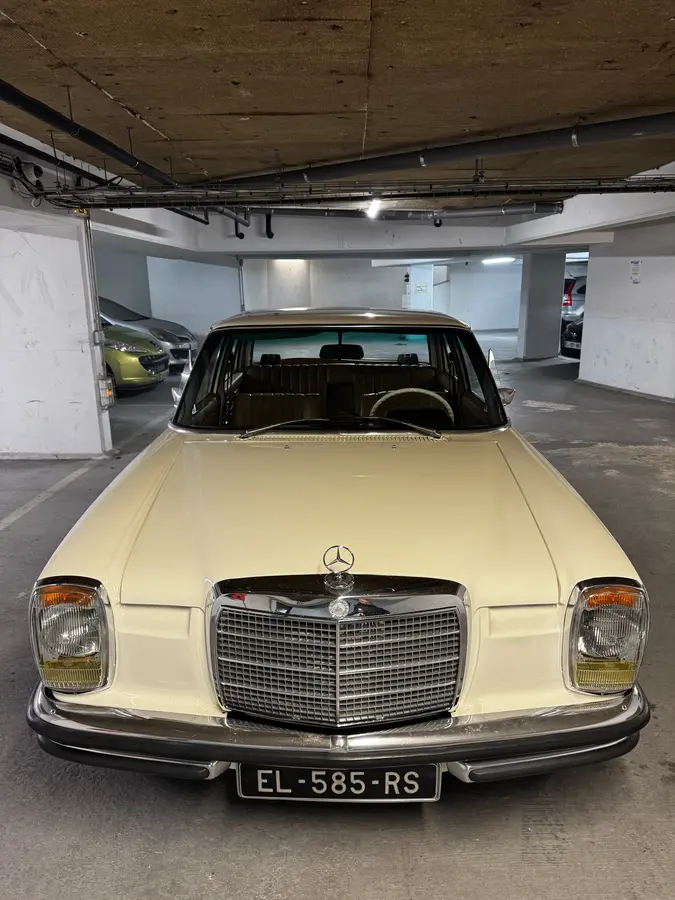
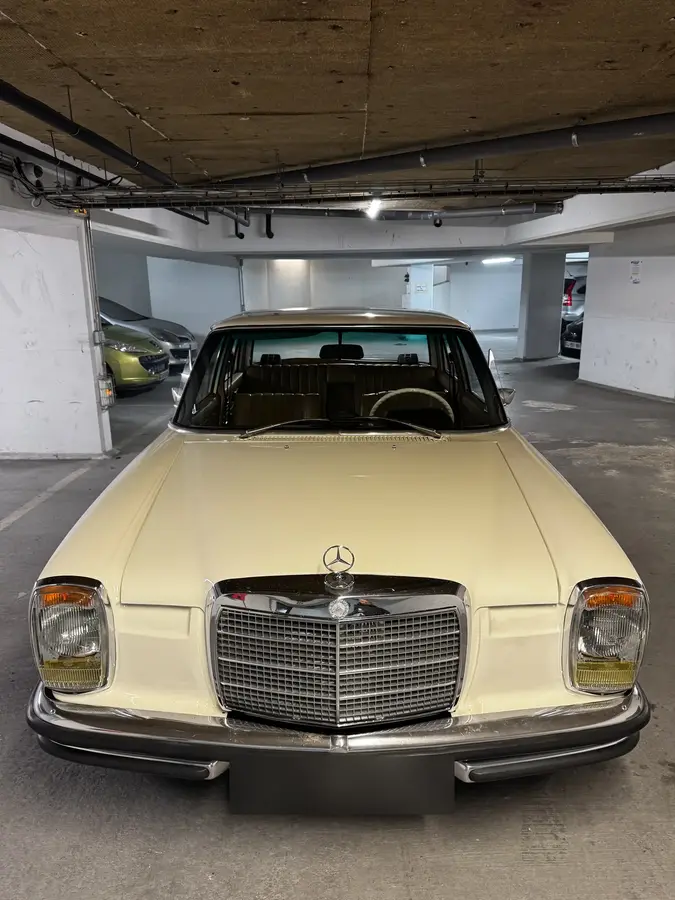
Smoother car change in the collection, blurred licence plates, full-width sheet photo on phones
- Parking: past its neighbour's place, the car changing sides speeds up and leaves the screen
  before reappearing (off screen too) on the other side, instead of vanishing on the spot.
- Licence plates blurred on the Mercedes photos (front, three-quarter rear, rear) and on the
  Peugeot 504 front photo; PROJECT_CONTEXT: every plate shown on the site must be blurred.
- Vehicle sheet: the photo frame gets an explicit height instead of aspect-ratio + max-height,
  which made Safari shrink it and leave it stuck to the left on phones.

Claude-Session: https://claude.ai/code/session_014T3PA9EPttZwtbaPWpaHtJ

Changed region(s): [[0.3422, 0.84, 0.6844, 0.9022]]

diff --git a/src/index.css b/src/index.css
@@ -200,9 +200,10 @@ button, input, select, textarea { font-variant-numeric: lining-nums; }
 .em-specs dd { margin: 0; text-align: right; }
 
 /* photos de la fiche : entières, sans recadrage */
-/* Photos de la fiche : en grand, d'un bord à l'autre de la fiche, toutes dans le même cadre carré */
+/* Photos de la fiche : en grand, d'un bord à l'autre de la fiche, toutes dans le même cadre (carré, moins haut sur
+   téléphone). Hauteur explicite, pas d'aspect-ratio : avec une hauteur maximale, Safari rétrécissait le cadre en largeur. */
 .em-carousel { display: flex; flex-direction: column; min-width: 0; margin: .2rem calc(-1 * var(--sheet-px, 0px)) 1.2rem; }
-.em-carousel__track { flex: none; aspect-ratio: 1; max-height: 64cqh; display: flex; overflow-x: auto; overflow-y: hidden; scroll-snap-type: x mandatory; overscroll-behavior-x: contain; scrollbar-width: none; touch-action: pan-x pan-y; background: #0a120e; }
+.em-carousel__track { flex: none; width: 100%; height: min(var(--em-sheet-w), 64cqh); display: flex; overflow-x: auto; overflow-y: hidden; scroll-snap-type: x mandatory; overscroll-behavior-x: contain; scrollbar-width: none; touch-action: pan-x pan-y; background: #0a120e; }
 .em-carousel__track::-webkit-scrollbar { display: none; }
 .em-carousel__slide { position: relative; flex: 0 0 100%; min-width: 0; height: 100%; margin: 0; scroll-snap-align: center; scroll-snap-stop: always; }
 .em-carousel__open { display: block; width: 100%; height: 100%; padding: 0; border: 0; background: none; cursor: zoom-in; }
@@ -225,7 +226,7 @@ button, input, select, textarea { font-variant-numeric: lining-nums; }
   .em-parking__panel { top: auto; left: 0; width: auto; height: var(--em-sheet-h); border-left: 0; border-top: 1px solid color-mix(in srgb, var(--ivory) 14%, transparent); transform: translateY(2.5rem); }
   .em-panel__bar { padding: .2rem max(10px, env(safe-area-inset-right, 0px)) 0 max(10px, env(safe-area-inset-left, 0px)); }
   .em-sheet { --sheet-px: 16px; padding: 0 var(--sheet-px) 1.5rem; }
-  .em-carousel__track { max-height: 40cqh; }
+  .em-carousel__track { height: min(100cqw, 40cqh); }
   .em-parking__label { left: 16px; bottom: calc(var(--em-sheet-h) + .7rem); }
   .em-parking.is-open .em-parking__flat { right: 0; padding-top: 13cqh; }
 }

diff --git a/src/scene/parking.ts b/src/scene/parking.ts
@@ -49,6 +49,7 @@ const bayX = (z: number) => BAY_OX + (z - PARK_Z) * Math.tan(BAY_TILT); /* axe d
 const place = (d: number) => [BAY_OX + d * AX[0], PARK_Z + d * AX[1]];  /* centre d'une voiture avancée de d */
 const BAY_BACK = -6.1;                              /* fond de la place, derrière les voitures même reculées */
 const BAY_FRONT = 4;                                /* entrée de la place, côté allée */
+const EXIT = 3.9;                                   /* élan supplémentaire de la voiture qui sort de l'écran pour changer de côté */
 const NUM_Z = 3.5;                                  /* numéro peint à l'entrée de la place */
 const WALL_Z = -7.65;
 const N = 3;
@@ -301,7 +302,10 @@ export function createParking(canvasEl: HTMLCanvasElement, cars: ParkingCar[], o
       const yawT = PARK_YAW + Math.max(-.12, Math.min(.12, st.speed * .08)) * (1 - near * .3);
       u.yaw = init ? yawT : damp(u.yaw, yawT, 7, dt);
       const [px, z] = place(d);
-      const x = w * S + px;
+      /* Au-delà de la voisine (|w| > 1), la voiture qui va changer de côté accélère vers le bord et sort de l'écran
+         avant de réapparaître de l'autre côté, hors champ elle aussi : elle ne disparaît plus d'un coup. */
+      const out = Math.min(1, Math.max(0, (Math.abs(w) - 1) / .5));
+      const x = w * S + Math.sign(w) * EXIT * out * out + px;
       u.group.position.set(x, 0, z);
       u.group.rotation.y = u.yaw;
       u.group.visible = edge > .01;

diff --git a/PROJECT_CONTEXT.md b/PROJECT_CONTEXT.md
@@ -141,7 +141,9 @@ Parking behaviour (`parking.ts`, `components/garage/Parking.tsx`):
     « Demander cette voiture ». The sheet scrolls on its own. `VehicleSheet`
     shows the photos by default; `withPhotos={false}` removes them.
   - Photos: large, edge to edge across the sheet, all in the same square frame
-    (cropped with `object-fit: cover` around the photo's `focalPoint`), so
+    (cropped with `object-fit: cover` around the photo's `focalPoint`; square,
+    lower on phones; explicit height, no `aspect-ratio`, which made Safari
+    shrink the frame's width), so
     portrait and landscape photos look alike; pager under the photo. A click
     opens the whole photo, uncropped, full screen (`.em-lightbox`, a modal
     `<dialog>` holding the `dialog` lock): arrows, ← →, swipe, Escape.
@@ -162,7 +164,9 @@ Parking behaviour (`parking.ts`, `components/garage/Parking.tsx`):
   hovered or when its sheet is open); sheet open, the neighbours back off to
   the back of their bays. Coming forward in an angled bay also moves a car to
   the left, so the neighbours stay almost as far forward as the active car:
-  the three cars keep the same gap between them (`S`). Floor lines, back line,
+  the three cars keep the same gap between them (`S`). Past its neighbour's place
+  (|w| > 1), the car changing sides speeds up towards the edge (`EXIT`) and
+  leaves the screen before reappearing, off screen as well, on the other side. Floor lines, back line,
   floor numbers, pillars and ceiling tubes follow the same axis; the bays are
   offset (`BAY_OX`) so that the row is centred on screen. Sheet open (and in
   portrait), the camera centres the projected outline of the chosen car in the
@@ -180,7 +184,7 @@ One folder per car (e.g. `references/MercedesW115/`), supplied by the owner in f
 the repository (including on `main`) for future work. They are not published with the site.
 
 - `illu/`: the 5 photos of the vehicle sheet carousel, in order. Converted to WebP (EXIF stripped, 2000 px and
-  900 px versions) into `public/images/collection/`.
+  900 px versions, licence plates blurred) into `public/images/collection/`.
 - `modele/`: the photos used to build the 3D model (`src/scene/carspecs.ts` and `src/scene/models/`).
 
 ## 5. Content and business rules
@@ -212,6 +216,10 @@ Data lives in `src/data/*.ts` (`{ en, fr }` fields) and `src/i18n/{en,fr}.ts`.
   owner provides real ones. Nothing is invented.
 - Generated images keep « Illustrative image », third-party photos keep
   « Illustrative photo ». Collection photos must show the actual cars.
+- Every licence plate shown on the site must be blurred (owner's rule): collection
+  photos, illustrative and third-party photos, section images, any new image. Blur
+  it in the published WebP files (both sizes), never in `references/`, which keeps
+  the owner's originals. Check every new photo for plates, even partly visible ones.
   Exception chosen by the owner: the DS sheet opens on an illustrative photo
   (Paris street), the collection car comes second.
 - Experience images show no visible caption: the caption stays in the
